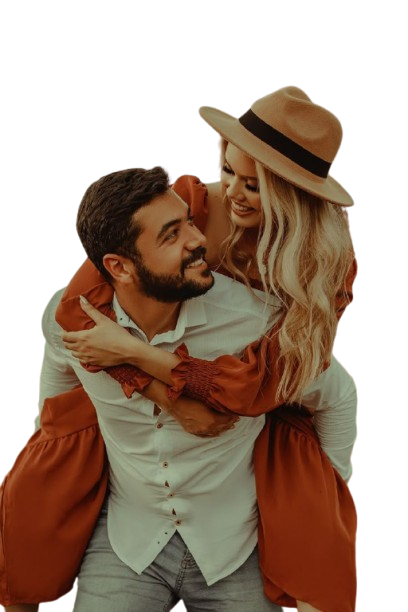
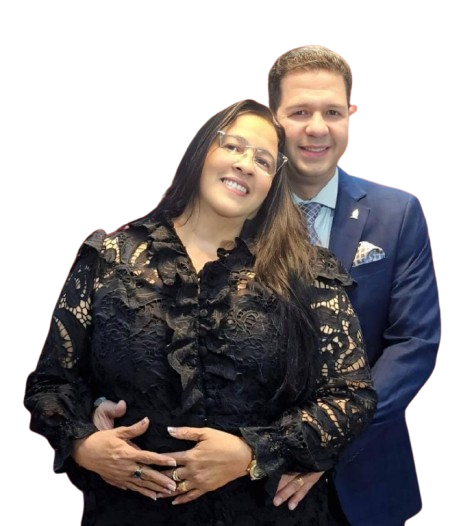
Card Img - Atualização - Imagem do Casal

diff --git a/src/css/cadastro.css b/src/css/cadastro.css
@@ -94,9 +94,11 @@ body{
 }
 
 .casal-img{
-    height: 480px;
-    padding: 45px;
-    margin-top: 10px;
+    height: 400px;
+    padding: 10px;
+    margin-top: 125px;
+    margin-left: 0px;
+    filter: brightness(65%);
 }
 
 .btn-data{
@@ -415,10 +417,11 @@ body{
 }
 
 .casal-img{
-    height: 370px;
-    width: 240px;
-    padding: 45px;
-    margin-top: 0px;
+    height: 350px;
+    width: 280px;
+    padding: 5px;
+    margin-top: 60px;
+    margin-left: 20px;
 }
 
 .data-evento{
